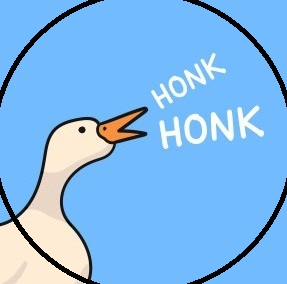
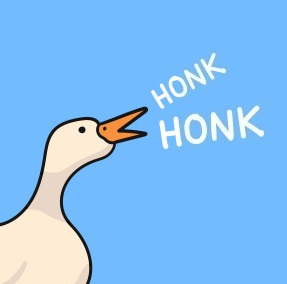
Reload config possible, image fix, and colour fix

diff --git a/cogs/debug.py b/cogs/debug.py
@@ -32,9 +32,15 @@ class Debug(commands.Cog):
 
         # Update previous message with the difference.
         await honk.edit(content=f'**HONK HONK!** `{miliseconds}ms`')
+    @debug.command(hidden=True)
+    async def reloadconfig(self, ctx):
+        """Reloads the config.json file."""
+
+        self.bot.config = data.getjson('config.json')
+        await ctx.send('**Honk!** Config file has been reloaded!')
 
     @debug.command(hidden=True)
-    async def image(self, ctx):
+    async def reloadprofileimage(self, ctx):
         """Update profile image of the bot."""
 
         with open('assets/goose.jpg', 'rb') as f:

diff --git a/cogs/events.py b/cogs/events.py
@@ -56,9 +56,9 @@ class Events(commands.Cog):
 
         # We really hit an error, send the error...
         await ctx.send(embed=discord.Embed(
-            title='Oeps. A honking error...',
+            title='***Honk error...***',
             description=f'`{str(error)}`',
-            colour=0xED5A40,
+            colour=0xFF7E62,
         ))
         
 def setup(bot):
